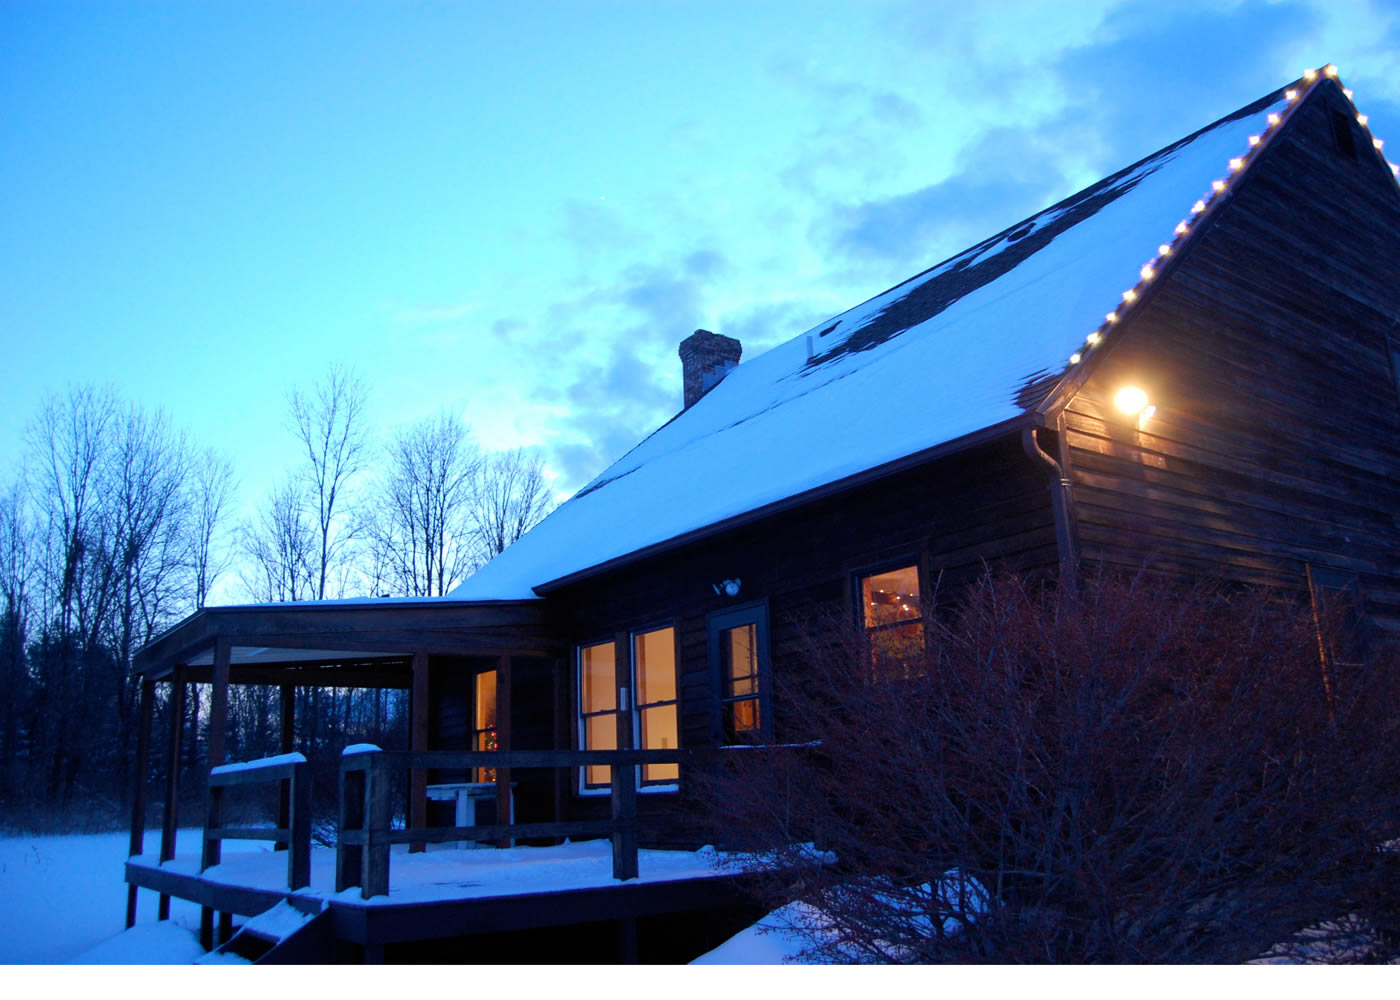
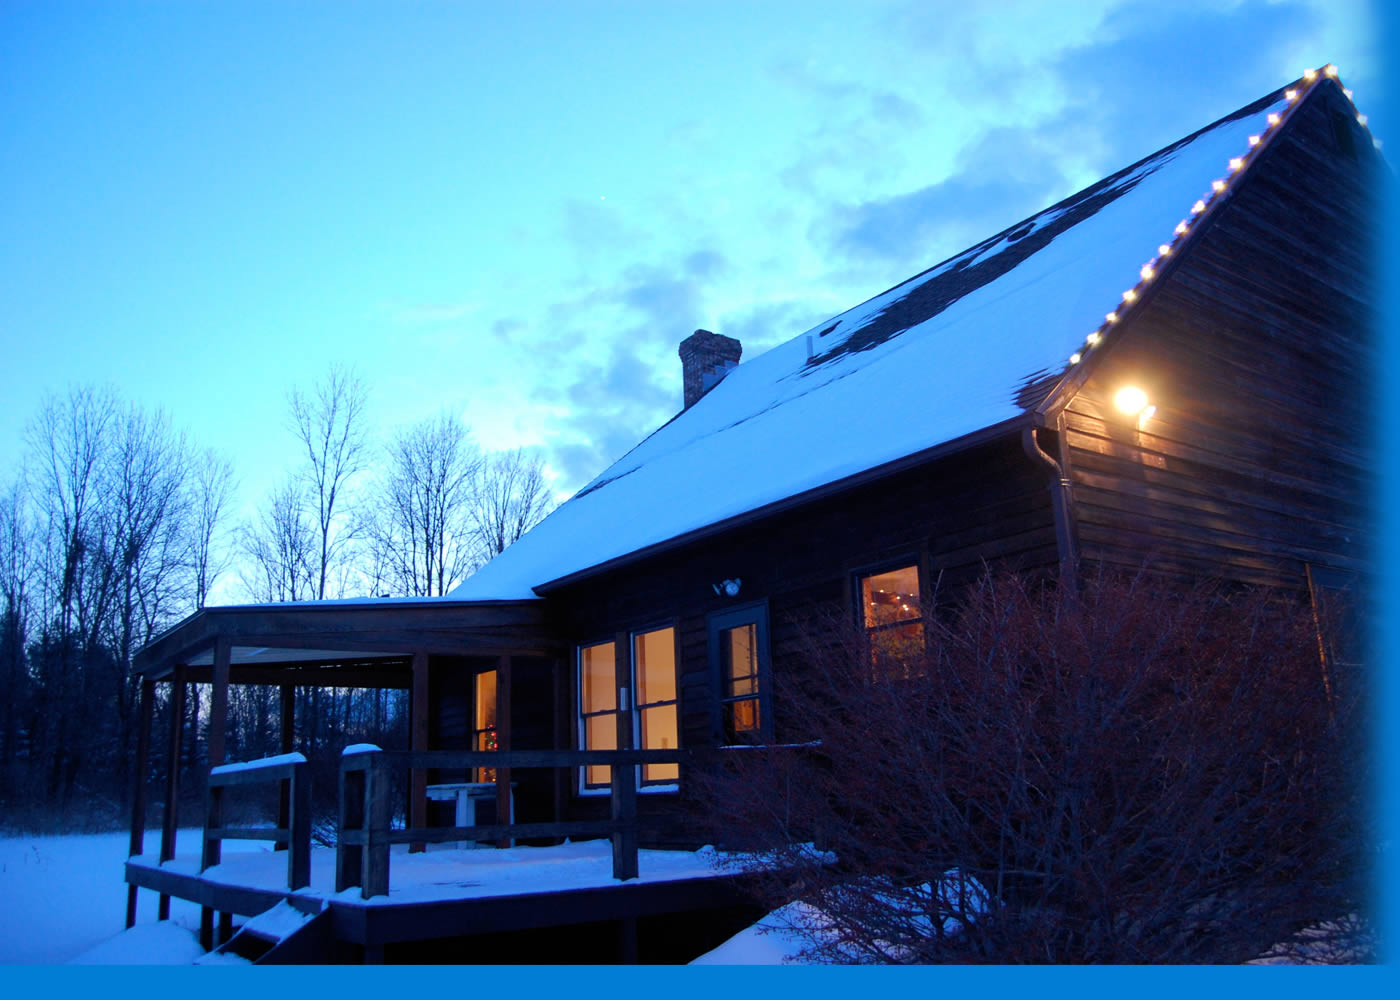
New scene backgrounds and other minor changes

Changed region(s): [[0.0, 0.0, 1.0, 1.0]]

diff --git a/css/main.css b/css/main.css
@@ -131,17 +131,17 @@ audio { display: none; }
 
 /* ===== Backgrounds ===== */
 
-#scene1 .bg { background: #B51428 url('../img/scene1/bg.jpg') left top no-repeat fixed; }
+#scene1 .bg { background: #B51428 url('../img/scene1/bg.jpg') left bottom no-repeat fixed; }
 #scene2 .bg { background: #B51428 url('../img/scene2/bg-2.jpg') left top repeat fixed; }
 #scene3 .bg { background: #B51428 url('../img/scene3/bg.jpg') left bottom repeat fixed; } 
-#scene4 .bg {background:  url('../img/scene4/bg-2.png') left bottom repeat fixed; bottom:0; }
-#scene4 .second-bg { background:url('../img/scene4/backroom-3.png') left bottom no-repeat fixed; bottom:0;}
+#scene4 .bg {background:  url('../img/scene4/bg-2.png') left 105% repeat fixed }
+#scene4 .second-bg { background:url('../img/scene4/backroom-3.png') left 105% no-repeat fixed}
 #scene5 .bg { background:  #B51428 url('../img/scene5/bg.jpg') left bottom repeat fixed; }
-#scene6 .bg { background:  #B51428 url('../img/scene-garageband/bg.jpg') left bottom repeat fixed; }
-#scene7 .bg { background: #B51428 url('../img/scene-miracle/bg.jpg') left bottom repeat fixed; }
-#scene8 .bg { background:  #B51428 url('../img/scene-aquarium/bg.jpg') left bottom repeat fixed;}
-#scene9 .bg { background:  #B51428 url('../img/scene-truck/bg.jpg') left bottom repeat fixed; }
-#scene10 .bg { background:  #B51428 url('../img/scene-pool/bg.jpg') left bottom repeat fixed;}
+#scene6 .bg { background:  #017CD5 url('../img/scene-garageband/bg.jpg') left bottom no-repeat fixed; }
+#scene7 .bg { background: #000 url('../img/scene-miracle/bg.jpg') left bottom no-repeat fixed; }
+#scene8 .bg { background:  #000 url('../img/scene-aquarium/bg.jpg') left bottom no-repeat fixed;}
+#scene9 .bg { background:  #FFF url('../img/scene-truck/bg.jpg') left bottom no-repeat fixed; }
+#scene10 .bg { background:  #B6D5EA url('../img/scene-pool/bg.jpg') left bottom no-repeat fixed;}
 #scene11 .bg { background:  #B51428 url('../img/scene-stieff/bg.jpg') left bottom repeat fixed;}
 #scene12 .bg { background:  #B51428 url('../img/scene-sleeping/bg.jpg') left bottom repeat fixed;}
 #scene13 .bg { background:  #B51428 url('../img/scene-celebration/bg.jpg') left bottom repeat fixed; }

diff --git a/js/main.js b/js/main.js
@@ -305,7 +305,9 @@ window.onload = function() {
 			{id:document.getElementById("text-grinch"), start: 1.6, end: 1.99, x: 0, y: -60, type:"translate"},
 			{id:document.getElementById("text-stole"), start: 1.6, end: 1.99, x: 0, y: -80, type:"translate"},
 			{id:document.getElementById("text-christmas"), start: 1.6, end: 1.99, x: 0, y: -100, type:"translate"},
-			{id:document.getElementById("grinch-face"), start: 1.85, end: 1.99, x: 0, y: -300, type:"translate"}
+			{id:document.getElementById("grinch-face"), start: 1.85, end: 1.99, x: 0, y: -300, type:"translate"},
+			{id:document.getElementById("s1bg"), start: 1.6, end: 1.99, x: 0, y: -40, type:"bgShift"},
+			{id:document.getElementById("s2bg"), start: 1.7, end: 1.99, x: 0, y: -30, type:"bgShift"}
 						
 		],
 		
@@ -514,7 +516,9 @@ window.onload = function() {
 			{id:document.getElementById("hearts-small"), start: 13.63, end: 13.66, x:-1, y: 0, type:"opacity"},
 			{id:document.getElementById("hearts-small"), start: 13.4, end: 13.99, x:0, y: -50, type:"translate"},
 			{id:document.getElementById("grinch-heart"), start: 13.66, end: 13.7, x:1, y: 0, type:"opacity"},
-			{id:document.getElementById("growing-heart"), start: 13.66, end: 13.7, x:1, y: 0, type:"opacity"}	
+			{id:document.getElementById("growing-heart"), start: 13.66, end: 13.7, x:1, y: 0, type:"opacity"},	
+			{id:document.getElementById("curtain"), start: 13.96, end: 13.999, x:0, y: 300, type:"translate"},
+			{id:document.getElementById("bells"), start: 13.96, end: 13.999, x:0, y: 300, type:"translate"}	
 		 ],
 
 		 [ //scene 14 - sky

diff --git a/index.html b/index.html
@@ -27,7 +27,7 @@
     
     
     <section id="scene1" class="active">
-      <div class="bg">
+      <div id="s1bg" class="bg">
         <div class="animation">
           <div id="text-dr-seuss">
             <div id="strike-through"></div>
@@ -45,7 +45,7 @@
     </section>
     
     <section id="scene2">
-      <div class="bg">
+      <div id="s2bg" class="bg">
         <audio id="audio2" controls="false">
         <source src="audio/Welcome-Christmas-Intro_LOOP.mp3" type="audio/mp3">
         <!-- <source src="horse.ogg" type="audio/ogg"> -->
